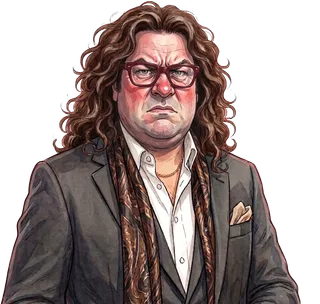
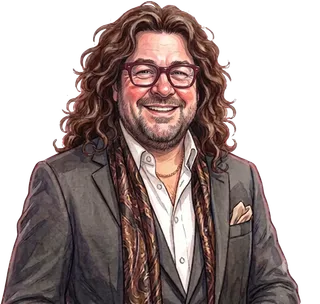
feat(chinage): variantes fâchées des commanditaires + nouveau portrait calme de Paul-Henry
L'ancien portrait renfrogné d'art.webp devient art-fache.webp ; test
d'existence des fichiers d'illustration référencés.

diff --git a/src/lib/personaIllustrations.test.ts b/src/lib/personaIllustrations.test.ts
@@ -1,3 +1,5 @@
+import { existsSync } from "node:fs";
+import { join } from "node:path";
 import { describe, expect, it } from "vitest";
 import {
   getVendeurIllustration,
@@ -5,21 +7,44 @@ import {
 } from "./personaIllustrations";
 import { EXPEDITEURS } from "@/data/expediteursCourrier";
 
+const ARCHETYPES = [
+  "naif", "bonhomme", "mamie", "malin", "grincheux", "antiquaire",
+  "pipelette", "videcave", "bonimenteur", "disquaire",
+  "joueur", "setdesigner", "modeuse", "esthete",
+] as const;
+
 describe("illustrations des commanditaires vendeurs", () => {
   const CAS = [
-    { arch: "joueur", expediteur: "jeux-video" },
-    { arch: "setdesigner", expediteur: "set-designer" },
-    { arch: "modeuse", expediteur: "mode" },
-    { arch: "esthete", expediteur: "art" },
+    { arch: "joueur", expediteur: "jeux-video", fache: "/personas/commanditaires/jeux-video-fache.webp" },
+    { arch: "setdesigner", expediteur: "set-designer", fache: "/personas/commanditaires/set-designer-fache.webp" },
+    { arch: "modeuse", expediteur: "mode", fache: "/personas/commanditaires/mode-fache.webp" },
+    { arch: "esthete", expediteur: "art", fache: "/personas/commanditaires/art-fache.webp" },
   ] as const;
 
-  it("calme et fâché pointent sur l'avatar du commanditaire (pas le placeholder)", () => {
+  it("le calme pointe sur l'avatar du commanditaire (pas le placeholder)", () => {
     for (const { arch, expediteur } of CAS) {
       const avatar = EXPEDITEURS[expediteur].avatar;
       expect(avatar).toBeTruthy();
       expect(getVendeurIllustration(arch)).toBe(avatar);
-      expect(getVendeurIllustrationFache(arch)).toBe(avatar);
       expect(getVendeurIllustration(arch)).not.toBe("/personas/vendeur-mystere.webp");
+    }
+  });
+
+  it("le fâché pointe sur la variante fâchée, distincte du calme", () => {
+    for (const { arch, fache } of CAS) {
+      expect(getVendeurIllustrationFache(arch)).toBe(fache);
+      expect(getVendeurIllustrationFache(arch)).not.toBe(getVendeurIllustration(arch));
+    }
+  });
+});
+
+describe("fichiers d'illustration présents dans public/", () => {
+  it("chaque chemin référencé (hors placeholders) existe sur le disque", () => {
+    for (const arch of ARCHETYPES) {
+      for (const chemin of [getVendeurIllustration(arch), getVendeurIllustrationFache(arch)]) {
+        expect(chemin).toBeTruthy();
+        expect(existsSync(join(process.cwd(), "public", chemin as string)), `fichier manquant : ${chemin}`).toBe(true);
+      }
     }
   });
 });

diff --git a/src/lib/personaIllustrations.ts b/src/lib/personaIllustrations.ts
@@ -18,7 +18,7 @@ const VENDEUR_ILLUSTRATION_MAP: Record<VendeurArchetypeId, string> = {
   videcave: ILLUSTRATION_PLACEHOLDER,
   bonimenteur: ILLUSTRATION_PLACEHOLDER,
   disquaire: ILLUSTRATION_PLACEHOLDER,
-  // Commanditaires de quêtes — avatar du courrier (pas encore de variante fâchée).
+  // Commanditaires de quêtes — avatar du courrier (source unique).
   joueur: EXPEDITEURS["jeux-video"].avatar ?? ILLUSTRATION_PLACEHOLDER,
   setdesigner: EXPEDITEURS["set-designer"].avatar ?? ILLUSTRATION_PLACEHOLDER,
   modeuse: EXPEDITEURS.mode.avatar ?? ILLUSTRATION_PLACEHOLDER,
@@ -36,10 +36,11 @@ const VENDEUR_ILLUSTRATION_FACHE_MAP: Record<VendeurArchetypeId, string> = {
   videcave: ILLUSTRATION_PLACEHOLDER,
   bonimenteur: ILLUSTRATION_PLACEHOLDER,
   disquaire: ILLUSTRATION_PLACEHOLDER,
-  joueur: EXPEDITEURS["jeux-video"].avatar ?? ILLUSTRATION_PLACEHOLDER,
-  setdesigner: EXPEDITEURS["set-designer"].avatar ?? ILLUSTRATION_PLACEHOLDER,
-  modeuse: EXPEDITEURS.mode.avatar ?? ILLUSTRATION_PLACEHOLDER,
-  esthete: EXPEDITEURS.art.avatar ?? ILLUSTRATION_PLACEHOLDER,
+  // Commanditaires de quêtes — variantes fâchées propres au chinage.
+  joueur: "/personas/commanditaires/jeux-video-fache.webp",
+  setdesigner: "/personas/commanditaires/set-designer-fache.webp",
+  modeuse: "/personas/commanditaires/mode-fache.webp",
+  esthete: "/personas/commanditaires/art-fache.webp",
 };
 
 /** Retourne le chemin de l'illustration d'un vendeur, ou undefined si l'archétype est inconnu. */